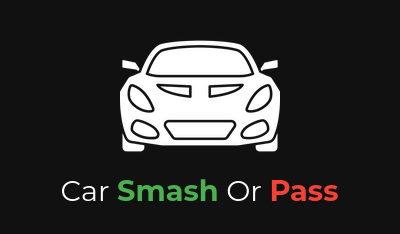
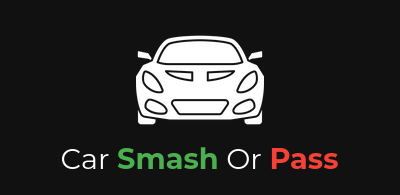
README.md updated and more: - README.md updated with new info and updated photos. - All references to sqlite replaced with postgres. - server/.placeholder_env added (because .env is for production db).

diff --git a/carsmashorpass/src/components/Credits/index.jsx b/carsmashorpass/src/components/Credits/index.jsx
@@ -65,7 +65,7 @@ function Credits() {
 
                     <article>
                     <svg xmlns="http://www.w3.org/2000/svg" viewBox="0 0 448 512"><path d="M448 80v48c0 44.2-100.3 80-224 80S0 172.2 0 128V80C0 35.8 100.3 0 224 0S448 35.8 448 80zM393.2 214.7c20.8-7.4 39.9-16.9 54.8-28.6V288c0 44.2-100.3 80-224 80S0 332.2 0 288V186.1c14.9 11.8 34 21.2 54.8 28.6C99.7 230.7 159.5 240 224 240s124.3-9.3 169.2-25.3zM0 346.1c14.9 11.8 34 21.2 54.8 28.6C99.7 390.7 159.5 400 224 400s124.3-9.3 169.2-25.3c20.8-7.4 39.9-16.9 54.8-28.6V432c0 44.2-100.3 80-224 80S0 476.2 0 432V346.1z"/></svg>
-                        <p>SQLite3</p>
+                        <p>Postgres</p>
                     </article>
 
                 </section>

diff --git a/carsmashorpass/src/components/Home/home.module.scss b/carsmashorpass/src/components/Home/home.module.scss
@@ -13,7 +13,7 @@
     }
 
     img {
-        width: 10rem;
+        width: 8rem;
     }
 
     h1 {

diff --git a/README.md b/README.md
@@ -1,22 +1,28 @@
 # CarSmashOrPass
 Smash or Pass Car Edition. A simple game of choosing your favorite cars. Made with React.
 
+[https://carsmashorpass.vercel.app/](https://carsmashorpass.vercel.app/)
+
 ![Car Smash Or Pass logo](README_img/CarSmashOrPass.png)
 
 ## Description
 
-A web application created with Vite, React, Express and SQLite.
+A web application created with Vite, React, Express and Postgres.
 
 The game consists of voting for cars that you like (smash) or hate (pass).
 
 Car information comes from the Forza Horizon 5 cars page on [Forza Fandom Wiki](https://forza.fandom.com/wiki/Forza_Horizon_5/Cars).
+
+Postgres Database is uploaded in Vercel (Vercel Postgres).
+
+Old implementation of the database was on sqlite (ond [cars.db](server/_cars.db) is on server folder).
 
 ### Local installation guide
 
 Once the repository folder is downloaded, the application is divided into 2 parts:
 
 - **carsmashorpass** folder (vite + react)
-- **server** folder (express + sqlite3 db)
+- **server** folder (express + pg)
 
 #### Front-end installation (carsmashorpass folder)
 
@@ -26,6 +32,8 @@ Once inside the folder do the following commands:
 
 `npm run dev` to start vite.
 
+You can build vite to production in local with `vite build` or `npm run build`.
+
 #### Back-end installation (server folder)
 
 Once inside the folder do the following commands:
@@ -33,6 +41,12 @@ Once inside the folder do the following commands:
 `npm install` to install the dependencies.
 
 `npm start` or `node server.js` to start express.
+
+The variables on server/.env are not included (Production Postgres db).
+
+There is a [placeholder .env](server/.placeholder_env) file for add your db info.
+
+You need to install **postgres** on your local system or do it on a container like **docker**.
 
 ### Car list
 
@@ -213,4 +227,4 @@ A simple game created by Gabriel Serrat Espejo ([gabriser GitHub](https://github
 - React Router: [reactrouter.com](https://reactrouter.com/), [npmjs.com (react-router-dom)](https://www.npmjs.com/package/react-router-dom)
 - Sass: [sass-lang.com](https://sass-lang.com/), [npmjs.com (sass)](https://www.npmjs.com/package/sass)
 - Express: [expressjs.com](http://expressjs.com/), [npmjs.com (express)](https://www.npmjs.com/package/express)
-- SQLite3: [www.sqlite.org](https://www.sqlite.org/), [npmjs.com (better-sqlite3)](https://www.npmjs.com/package/better-sqlite3)
+- Postgres: [www.postgresql.org](https://www.postgresql.org/), [Vercel Postgres](https://vercel.com/storage/postgres), [npmjs.com (pg)](https://www.npmjs.com/package/pg)
